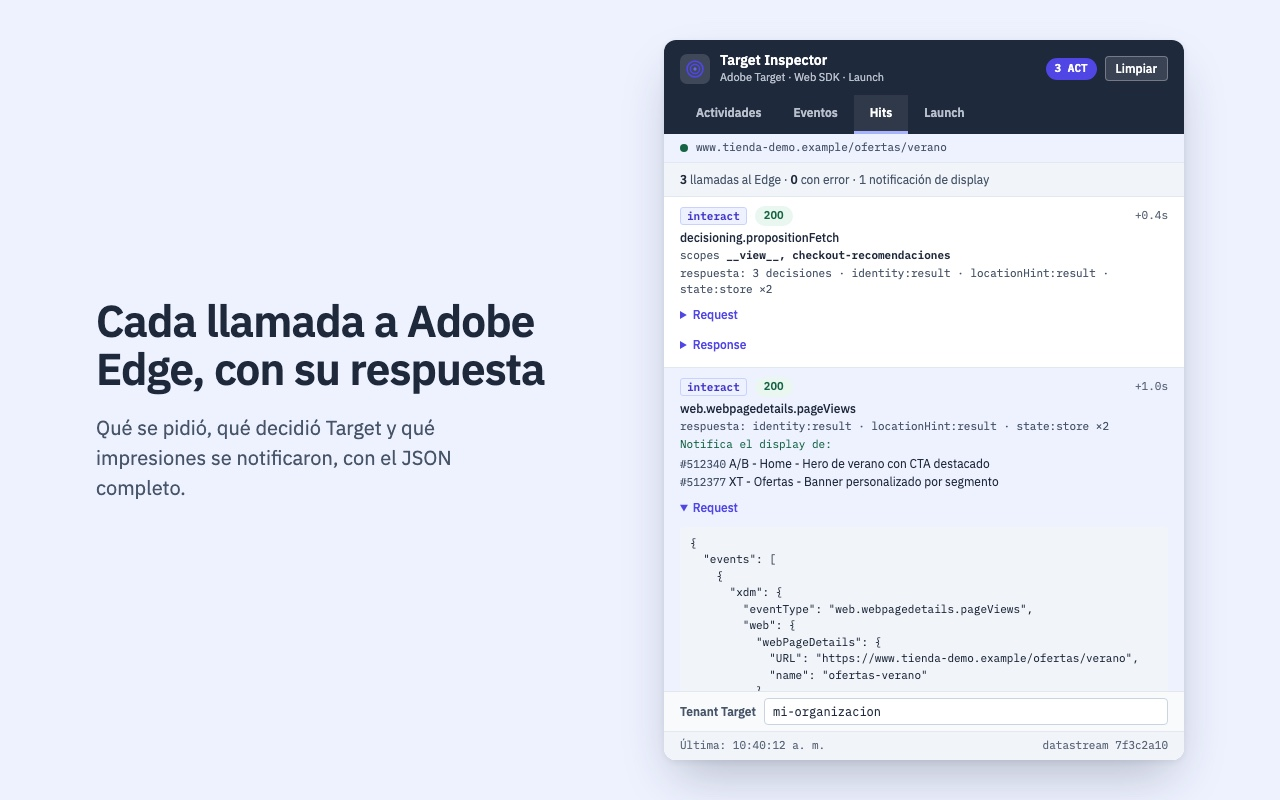
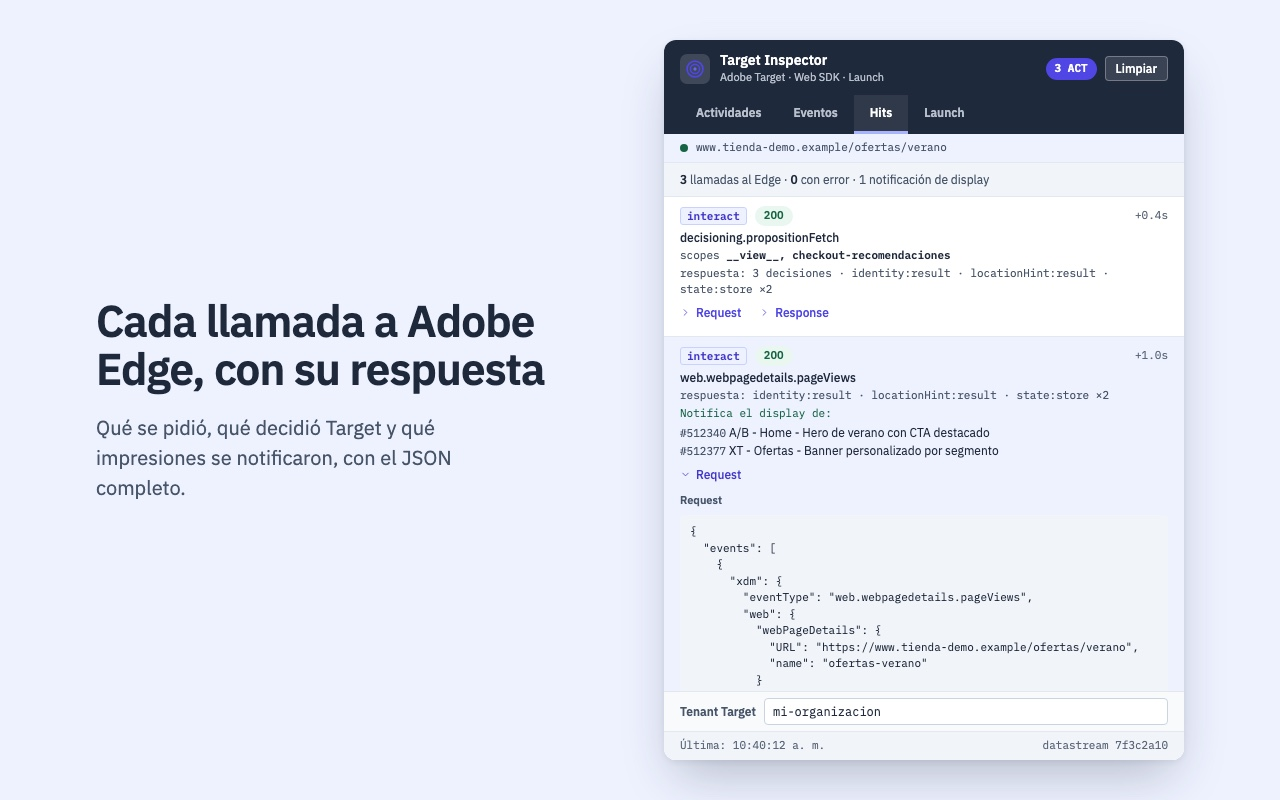
Hits: Request/Response en un renglón y payload legible
- Request y Response pasan de dos <details> apilados a dos botones en un
  mismo renglón con un panel cada uno.
- Con la ventana ancha (≥800px) la fila con un payload abierto pasa a dos
  columnas: resumen a la izquierda, payload a la derecha.
- La caja de código crece con la ventana (clamp 200px–55vh–560px) en vez de
  200px fijos.
- Captura de Hits de la Store regenerada.

Changed region(s): [[0.5312, 0.375, 0.7812, 0.6562], [0.5625, 0.6875, 0.875, 0.8438], [0.8125, 0.4688, 0.8438, 0.5]]

diff --git a/popup.js b/popup.js
@@ -67,7 +67,7 @@ function emptyStateHtml(icon, html, withInject = false, warn = false) {
 // en <body> con cada hit o regla nueva. Antes de repintar se anota qué
 // estaba enfocado (el data-key más cercano + el control adentro) y después
 // se vuelve a enfocar su equivalente.
-const FOCUS_ATTRS = ["id", "data-copy", "data-copy-event", "data-copy-code", "data-copy-hit", "data-goto", "data-idx", "data-event", "data-status", "href"];
+const FOCUS_ATTRS = ["id", "data-hit-toggle", "data-copy", "data-copy-event", "data-copy-code", "data-copy-hit", "data-goto", "data-idx", "data-event", "data-status", "href"];
 
 function focusDescriptor(root) {
   const el = document.activeElement;
@@ -1867,18 +1867,38 @@ function hitJson(value) {
   }
 }
 
-/** Desplegable de Request o Response de un hit; el <pre> se llena al abrir, como en Launch. */
-function hitBlockHtml(h, which, value, title = "") {
-  if (value === undefined || value === null) return "";
-  const key = `${h.requestId}|${which}`;
-  const open = openHitBlocks.has(key);
-  const label = which === "req" ? "Request" : "Response";
-  return `
-    <details class="hit-row__code" data-key="${escapeHtml(key)}"${open ? " open" : ""}>
-      <summary class="raw-summary"${title ? ` aria-label="${label} de ${escapeHtml(title)}"` : ""}>${label}</summary>
-      <pre class="raw-pre">${open ? escapeHtml(hitJson(value)) : ""}</pre>
-      <button class="btn-copy-content" data-copy-hit="${escapeHtml(key)}">Copiar ${label.toLowerCase()}</button>
-    </details>`;
+/**
+ * Request y Response de un hit: dos botones en un mismo renglón y un panel
+ * por cada uno (antes eran dos <details> apilados: ocupaban un renglón cada
+ * uno en las 27 filas, y con la ventana ancha no había forma de poner el
+ * payload al costado). Devuelve { toggles, panels }; el <pre> se llena al
+ * abrir, como en Launch.
+ */
+function hitBlocksHtml(h, title) {
+  const blocks = [
+    ["req", "Request", h.body],
+    ["res", "Response", lastHitResponses.get(h.requestId)],
+  ].filter(([, , value]) => value !== undefined && value !== null);
+  const toggles = blocks
+    .map(([which, label]) => {
+      const key = `${h.requestId}|${which}`;
+      const open = openHitBlocks.has(key);
+      return `<button class="hit-row__toggle" data-hit-toggle="${escapeHtml(key)}" aria-expanded="${open}" aria-label="${label} de ${escapeHtml(title)}">${iconSvg("chevron", "hit-row__chevron")}${label}</button>`;
+    })
+    .join("");
+  const panels = blocks
+    .map(([which, label, value]) => {
+      const key = `${h.requestId}|${which}`;
+      const open = openHitBlocks.has(key);
+      return `
+      <div class="hit-row__panel" data-key="${escapeHtml(key)}"${open ? "" : " hidden"}>
+        <div class="hit-row__panel-label">${label}</div>
+        <pre class="raw-pre">${open ? escapeHtml(hitJson(value)) : ""}</pre>
+        <button class="btn-copy-content" data-copy-hit="${escapeHtml(key)}">Copiar ${label.toLowerCase()}</button>
+      </div>`;
+    })
+    .join("");
+  return { toggles, panels };
 }
 
 function hitBlockValue(key) {
@@ -1968,8 +1988,10 @@ function renderHits() {
                })
                .join("")}</ul>`
           : "";
+        const blocks = hitBlocksHtml(h, title);
         return `
         <div class="hit-row" data-key="${escapeHtml(h.requestId)}|row">
+          <div class="hit-row__main">
           <div class="hit-row__header">
             <span class="event-tag" title="${escapeHtml(h.url || "")}">${escapeHtml(h.endpoint || "?")}</span>
             ${hitStatusBadge(h)}
@@ -1980,8 +2002,9 @@ function renderHits() {
           ${meta.map((m) => `<div class="hit-row__meta">${m}</div>`).join("")}
           ${displayed}
           ${h.error ? `<div class="hit-row__meta">Error: ${escapeHtml(h.error)}</div>` : ""}
-          ${hitBlockHtml(h, "req", h.body, title)}
-          ${hitBlockHtml(h, "res", lastHitResponses.get(h.requestId), title)}
+          ${blocks.toggles ? `<div class="hit-row__toggles">${blocks.toggles}</div>` : ""}
+          </div>
+          ${blocks.panels ? `<div class="hit-row__panels">${blocks.panels}</div>` : ""}
         </div>
       `;
       })
@@ -1999,21 +2022,24 @@ document.getElementById("hits-list").addEventListener("click", (e) => {
   copyText(hitJson(value), btn.dataset.copyHit.endsWith("|req") ? "Request copiado." : "Response copiada.");
 });
 
-document.getElementById("hits-list").addEventListener(
-  "toggle",
-  (e) => {
-    if (!e.target.classList?.contains("hit-row__code")) return;
-    const key = e.target.dataset.key;
-    if (e.target.open) {
-      openHitBlocks.add(key);
-      const pre = e.target.querySelector(".raw-pre");
-      if (pre && !pre.textContent) pre.textContent = hitJson(hitBlockValue(key));
-    } else {
-      openHitBlocks.delete(key);
-    }
-  },
-  true,
-);
+// Abrir/cerrar Request o Response: el panel se llena la primera vez que se abre.
+document.getElementById("hits-list").addEventListener("click", (e) => {
+  const btn = e.target.closest("[data-hit-toggle]");
+  if (!btn) return;
+  const key = btn.dataset.hitToggle;
+  const panel = [...btn.closest(".hit-row").querySelectorAll(".hit-row__panel")].find((p) => p.dataset.key === key);
+  if (!panel) return;
+  const open = panel.hidden;
+  panel.hidden = !open;
+  btn.setAttribute("aria-expanded", String(open));
+  if (open) {
+    openHitBlocks.add(key);
+    const pre = panel.querySelector(".raw-pre");
+    if (!pre.textContent) pre.textContent = hitJson(hitBlockValue(key));
+  } else {
+    openHitBlocks.delete(key);
+  }
+});
 
 // Atajos entre pestañas: los diagnósticos y avisos nombran la pestaña donde
 // está el detalle ("Abre Hits") — un botón la activa, en vez de pedirle al

diff --git a/popup.html b/popup.html
@@ -932,8 +932,62 @@
         font-size: var(--fs-meta);
         color: var(--ink-2);
       }
-      .hit-row__code {
-        margin-top: 4px;
+/* Request / Response: dos botones en un renglón, panel debajo (o al
+         costado con la ventana ancha — ver el @media de abajo). */
+      .hit-row__toggles {
+        display: flex;
+        flex-wrap: wrap;
+        gap: 0 18px;
+        margin-top: 2px;
+      }
+      .hit-row__toggle {
+        display: inline-flex;
+        align-items: center;
+        gap: 5px;
+        padding: 4px 0;
+        background: none;
+        border: none;
+        font-size: var(--fs-sm);
+        font-weight: 500;
+        color: var(--accent);
+      }
+      .hit-row__toggle:hover {
+        color: var(--accent-strong);
+      }
+      .hit-row__chevron {
+        font-size: 11px;
+        transition: transform 0.15s;
+      }
+      .hit-row__toggle[aria-expanded="true"] .hit-row__chevron {
+        transform: rotate(90deg);
+      }
+      .hit-row__panel {
+        margin-top: 6px;
+      }
+      .hit-row__panel[hidden] {
+        display: none;
+      }
+      .hit-row__panel-label {
+        font-size: var(--fs-meta);
+        font-weight: 600;
+        color: var(--ink-2);
+      }
+      .hit-row__panel + .hit-row__panel {
+        margin-top: 12px;
+      }
+      /* Ventana ancha: la fila con un payload abierto pasa a dos columnas —
+         resumen a la izquierda, payload a la derecha, a todo el alto útil. */
+      @media (min-width: 800px) {
+        .hit-row:has(.hit-row__panel:not([hidden])) {
+          display: grid;
+          grid-template-columns: minmax(0, 340px) minmax(0, 1fr);
+          column-gap: 24px;
+          align-items: start;
+        }
+        .hit-row__panels .hit-row__panel:first-child,
+        .hit-row__panels .hit-row__panel[hidden] + .hit-row__panel {
+          margin-top: 0;
+        }
       }
       .status-badge--hit-ok {
         background: var(--ok-bg);
@@ -1206,7 +1260,9 @@
         line-height: 1.5;
         white-space: pre-wrap;
         word-break: break-word;
-        max-height: 200px;
+        /* Crece con la ventana: 200px fijos obligaban a leer una respuesta de
+           100KB de a ocho líneas, por alta que fuera la ventana. */
+        max-height: clamp(200px, 55vh, 560px);
         overflow-y: auto;
         color: var(--ink);
       }

diff --git a/CLAUDE.md b/CLAUDE.md
@@ -94,7 +94,7 @@ Message types (`content.js` switches on `event.data.type`): `alloyResponse` (ful
 
 ### Hits (`renderHits`) and the Actividades empty-state diagnosis
 
-`hitRequest` (from `onBeforeNetworkRequest`, body cloned via JSON) is appended to `hits` with a summary computed in content.js (`summarizeHitBody`: eventTypes, decisionScopes, activity IDs of `decisioning.propositionDisplay` propositions). `alloyResponse` now carries `requestId`/`statusCode`: content.js fills `status`/`handleTypes`/`decisions` on the matching hit **even when the payload is too large to store**, and stores `requestId` on the `requests` entry. The popup shows the response body by looking it up in `requests` — it is never duplicated into `hits`. Request/Response `<pre>`s are filled lazily on open (responses run 50-115KB).
+`hitRequest` (from `onBeforeNetworkRequest`, body cloned via JSON) is appended to `hits` with a summary computed in content.js (`summarizeHitBody`: eventTypes, decisionScopes, activity IDs of `decisioning.propositionDisplay` propositions). `alloyResponse` now carries `requestId`/`statusCode`: content.js fills `status`/`handleTypes`/`decisions` on the matching hit **even when the payload is too large to store**, and stores `requestId` on the `requests` entry. The popup shows the response body by looking it up in `requests` — it is never duplicated into `hits`. Request and Response are two `<button data-hit-toggle aria-expanded>` on one line plus one `.hit-row__panel` each (they were two stacked `<details>`: a line each on every row, and no way to put the payload beside the summary). Each row is `.hit-row__main` + `.hit-row__panels`; at ≥800px a row with an open panel becomes two columns via `:has()` (summary left, payload right). Panels' `<pre>`s are filled lazily on open (responses run 50-115KB); open state lives in `openHitBlocks`. `.raw-pre` grows with the window (`clamp(200px, 55vh, 560px)`) — at a fixed 200px a 100KB response was read eight lines at a time. Launch rule rows were deliberately NOT made two-column: their code lives in `<details>` among the condition lines, and a grid stretched the left rows to the height of the code.
 
 When Actividades has nothing to show (no `requests`, **or** responses with zero decisions — elpais.com/ibm.com/redhat.com used to show an empty list with only the tenant note), `whyNoActivitiesHtml` explains why, in this order: (1) at.js without Alloy (`pageSdk`, posted by inject.js section 6 — it only reads `window.adobe.target`, never calls it); (2) only if no decision call went out: a Target-named rule (`TARGET_RULE_RE`) blocked by a consent-looking cookie (`CONSENT_COOKIE_RE`), else N rules blocked by consent cookies; (3) Alloy configured: decision calls without activities (mentions `no-offers`), calls without decisions, or no calls in this load. A Target-named rule that failed on path/valueComparison is deliberately NOT used as the reason — nvidia.com/whirlpool.com have dozens, for other pages, and pointing at one was misleading. Found live on viabcp.com: without accepting cookies the "Adobe Target" rule requires `politica_privacidad_personalizacion` and Target is never called — that's what "no cargan las actividades" was in a fresh Brave profile. The "Capturar ahora" button is hidden when a reason is shown. `whyNoActivities` returns `{ html, warn }`: blocking reasons (at.js, consent cookie) set `warn`, which renders `.empty-state--warn` (alert icon, warn-tinted text block) and turns the URL-bar indicator orange — they used to look exactly like the neutral "Sin capturas aún". The consent diagnosis carries a `data-goto="launch" data-search="<rule name>"` button that opens Launch already filtered to that rule. Eventos/Hits empty states only offer "Capturar ahora" when `captureIsLive` is false (no Alloy instance, no Launch, no responses) — on bbva.pe (plain-object digitalData, deliberately not hooked) the button was pointless. The URL-bar dot is grey when nothing was captured, green only when capture is live.
 
